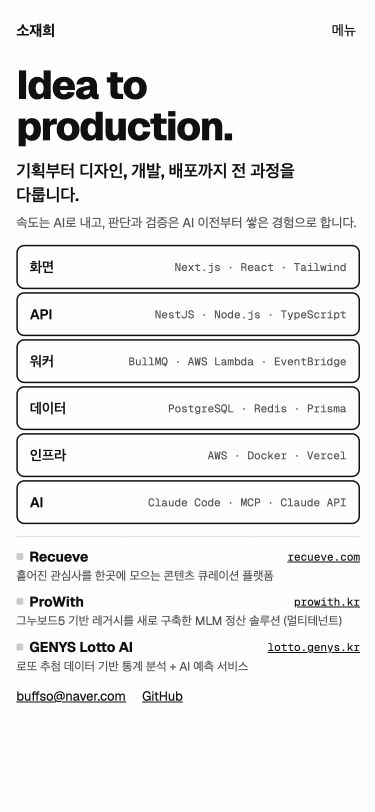
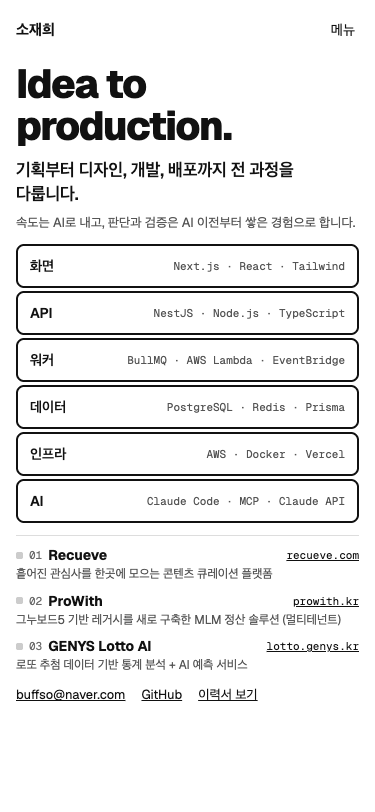
docs: plan the home page around service and ai cards
- The home page shows three service cards and four AI work cards, then a short About.
  Career details stay on the resume page.
- Service details and the two client sites move to the portfolio page.
- Captures of the home page and the updated first screen are in docs/design/f1.

diff --git a/docs/02-ia.md b/docs/02-ia.md
@@ -1,100 +1,117 @@
 # 02. 정보 구조 (IA)
 
-- 상태: 초안 (2026-10-14)
+- 상태: 초안 (2026-10-14). 홈 구성은 F1 기획에서 정했습니다(아래 "홈 시안").
 
 ## 페이지
 
 | 경로 | 내용 | 단계 |
 |---|---|---|
-| `/` | 홈. 아래 섹션 순서 참고 | 1차 |
-| `/work/recueve` · `/work/prowith` · `/work/lotto-ai` | 프로젝트 상세 | 1차 |
-| `/ai` · `/ai/[slug]` | AI 작업 카드 목록과 상세 | 1차 |
-| `/resume` | 이력서 (인쇄용) | 1차 |
+| `/` | 홈(메인). 아래 섹션 순서 참고 | 1차 (F1) |
+| `/work` | 포트폴리오. 세 서비스의 상세와 의뢰받아 만든 사이트 두 개. 서비스마다 페이지를 나눌지(`/work/[slug]`)는 F2 기획에서 정합니다 | 1차 (F2) |
+| `/ai` · `/ai/[slug]` | AI 작업 목록과 상세 | 1차 (F3) |
+| `/resume` | 이력서 (인쇄용) | 1차 (F4) |
 | `/en/...` | 영어 페이지 | 2차 |
 
-섹션과 페이지마다 전달할 메시지, 담을 사실과 출처, 문구 초안, 움직임을 적습니다. 사실의 출처는 `content/synced/`의 원본 절이고, Recueve만 사이트 전용 글 `content/site/projects/recueve.md`입니다(ADR-0003). 문구 초안은 구현하면서 다듬고, 바뀌면 이 문서를 고칩니다.
+섹션과 페이지마다 전달할 메시지, 담을 사실과 출처, 문구 초안, 움직임을 적습니다. 사실의 출처는 `content/synced/`의 원본 절이고, 원본에 없는 작업(Recueve, 사이트 두 개, AI 작업)은 `content/site/`의 사이트 전용 글입니다(ADR-0003). 문구 초안은 구현하면서 다듬고, 바뀌면 이 문서를 고칩니다.
 
 ## 홈
+
+홈은 만든 것을 짧게 보여 주고, 자세한 내용은 `/work`, `/ai`, `/resume`으로 보냅니다. 작업이 주인공이고 사람 소개는 짧게 뒤에 붙습니다([03-design.md](03-design.md#참고한-사이트)). 경력 목록은 홈에 두지 않고 About의 "이력서 보기"로 연결합니다.
+
+순서: 첫 화면 → 운영 중인 서비스 → AI로 일하는 방식 → About → 푸터
+
+섹션 머리는 작은 영어 라벨(Geist Mono)과 한국어 제목으로 맞춥니다. "Planned, designed, built, shipped."와 스토리보드 배치 C의 표는 쓰지 않습니다.
 
 ### 1. 첫 화면
 
 | 항목 | 내용 |
 |---|---|
 | 메시지 | 기획부터 디자인, 개발, 배포까지 전 과정을 다루고, 속도는 AI로 내되 판단과 검증은 AI 이전부터 쌓은 경험으로 합니다 |
-| 사실과 출처 | 첫 줄, 둘째 줄, 보조 문장, 기술 층 여섯 개, 서비스 세 개 증거 목록, 이메일과 GitHub. 재료와 출처는 [04-motion.md](04-motion.md#재료) |
+| 사실과 출처 | 첫 줄, 둘째 줄, 보조 문장, 기술 층 여섯 개, 서비스 세 개 목록, 이메일, GitHub, 이력서 보기. 재료와 출처는 [04-motion.md](04-motion.md#재료) |
 | 문구 초안 | 첫 줄 "Idea to production." · 둘째 줄 "기획부터 디자인, 개발, 배포까지 전 과정을 다룹니다." · 보조 문장 "속도는 AI로 내고, 판단과 검증은 AI 이전부터 쌓은 경험으로 합니다." |
 | 움직임 | 있음. 다섯 박자, [04-motion.md](04-motion.md) |
 
-이력서의 한 줄 소개 "AI를 더해 기술을 비즈니스 가치로 연결하는 풀스택 개발자"는 첫 화면 글이 세 줄을 넘지 않도록 첫 화면에서는 빼고, 경력 섹션과 `/resume`에서 씁니다.
-
-서비스 세 개는 첫 화면의 주인공이 아니라 증거입니다. 큰 카드가 아니라 이름, 한 줄 설명, 라이브 링크만 담은 작은 목록으로 둡니다.
+서비스 세 개는 첫 화면의 주인공이 아니라 증거입니다. 이름, 한 줄 설명, 라이브 링크만 담은 작은 목록으로 둡니다. 번호(01~03)는 아래 서비스 카드와 같고, 이름을 누르면 해당 카드로 내려갑니다.
 
 ### 2. 운영 중인 서비스
 
 | 항목 | 내용 |
 |---|---|
 | 메시지 | 세 서비스 모두 지금 열어 보실 수 있습니다 |
-| 사실과 출처 | 서비스, 한 줄 설명, 역할, 기간, 스택(포트폴리오 "1. 한눈에 보기"), 보는 방법(포트폴리오 "보시는 방법"). Recueve는 `content/site/projects/recueve.md` |
-| 문구 초안 | 제목 "운영 중인 서비스" · 소개 "직접 설계하고 개발해 배포한 서비스 세 개입니다. 세 곳 모두 지금 열어 보실 수 있습니다." |
+| 사실과 출처 | 포트폴리오 "1. 한눈에 보기", "4. 프로젝트 상세". Recueve는 `content/site/projects/recueve.md` |
+| 구성 | 머리 `WORK` · 제목 "운영 중인 서비스" · 소개 "지금 열어 보실 수 있는 서비스 세 개입니다." · 카드 세 장 · 끝에 "포트폴리오 전체 보기"(`/work`) |
 | 움직임 | 없음 |
 
-카드마다 상세 페이지(`/work/[slug]`)와 라이브 서비스로 연결합니다.
+카드에는 실제 화면, 번호와 이름, 제목 문장, 역할과 기간, 확인할 수 있는 숫자 하나, "서비스 열기"와 "자세히 보기"를 담습니다. 설명과 스택, 큰 화면은 `/work`에서 보여 줍니다.
 
-제목 위 작은 머리 문구 후보로 "Planned, designed, built, shipped."를 둡니다. 첫 화면 제목으로는 길어서 빼 둔 문구입니다. 세 서비스가 모두 이 네 단계를 거쳐 지금 운영 중이라는 뜻이라, 이 섹션에서는 섹션 제목을 받쳐 주는 역할을 합니다.
-
-카드 대신 기술과 서비스 표(층이 열, 서비스가 행이고 쓴 기술이 칸으로 보이는 형태, F1 스토리보드의 배치 C)를 쓰는 안도 후보입니다. 두 후보 모두 섹션을 구현할 때 쓸지 정합니다.
+| 카드 | 제목 문장 | 숫자 | 화면 |
+|---|---|---|---|
+| 01 Recueve | 흩어진 관심사를 한곳에 모읍니다. | 7단계 (AI 자동 채움 파이프라인) | 로그아웃 상태의 레코 상세(AI가 채운 설명과 카테고리). 다른 사람 얼굴이 든 썸네일은 잘라 냅니다 |
+| 02 ProWith | 업체마다 다른 보상 규칙을 하나의 정산 엔진으로 돌립니다. | 13종 × 4종 (수당 종류 × 마감 주기) | 데모 관리자의 마감 내역. 회원 이름이 보이는 화면은 쓰지 않습니다. 버튼은 "데모 열기"입니다 |
+| 03 GENYS Lotto AI | 역대 추첨 데이터로 통계 분석과 AI 예측을 함께 합니다. | 966ms → 31ms (분석 API 응답) | 로그인 없이 열리는 스마트 분석 |
 
 ### 3. AI로 일하는 방식
 
 | 항목 | 내용 |
 |---|---|
-| 메시지 | 구현은 AI를 활용해 빠르게 하고, 기준과 판단은 제가 정해 장치로 고정합니다 |
-| 사실과 출처 | 포트폴리오 "2. AI 활용 - 개발"(스킬 6종, 검사 두 가지), `content/site/projects/recueve.md`의 "AI 자동 채움"(Recueve), 이 저장소(CLAUDE.md, 훅, CI, ADR, devlog) |
-| 문구 초안 | 제목 "AI로 일하는 방식" · 소개 "구현은 AI를 활용해 빠르게 하고, 저는 기준을 정하고 판단과 검증에 집중합니다. 이 사이트도 그렇게 만들었습니다." |
-| 움직임 | 없음. 이 사이트가 만들어지는 과정(기획 문서 → 결정 → 구현 → 검사 → 기록)을 움직이지 않는 도식으로 보여 줍니다 |
+| 메시지 | 구현은 AI를 활용해 빠르게 하고, 기준은 장치로 고정합니다. 개발 밖의 일에도 같은 방식을 씁니다 |
+| 사실과 출처 | `content/site/ai/`의 사이트 전용 글. "이 사이트" 카드는 이 저장소 |
+| 구성 | 머리 `AI` · 제목 "AI로 일하는 방식" · 소개(메시지와 같음) · 카드 네 장. "자세히 보기"는 `/ai/[slug]` |
+| 움직임 | 없음 |
 
-도식 아래에 대표 AI 작업 카드 세 개와 `/ai` 링크를 둡니다.
+| 카드 | 제목 문장 | 숫자 | 그림 |
+|---|---|---|---|
+| Jake Wiki | 자료를 넣으면 AI가 정리하는 위키를 씁니다. | 위키 30쪽 · 규칙 문서 5개 (2026.10 기준) | 흐름 도식(raw·clippings → Claude → wiki). 개인 위키라 내용과 화면은 싣지 않습니다 |
+| 영상 제작 | 편집 도구를 배우지 않고 영상을 만들었습니다. | 71.9초 · 6장면 · 1080p | 유튜브 썸네일. computer use로 에이전트가 CapCut을 조작했고, 저는 목소리와 음악을 고르고 결과를 판단했습니다. 라이선스 때문에 음악을 바꾼 판단을 한 줄 넣습니다 |
+| Jake Hermes | 텔레그램으로 일을 맡기는 개인 에이전트를 띄웠습니다. | 로컬 모델 · 예약 작업 2개 | 흐름 도식(텔레그램 ⇄ Hermes Agent ⇄ 로컬 모델). 만든 목적은 구현할 때 확인해 문구를 고칩니다 |
+| 이 사이트 | 이 사이트도 같은 방식으로 만들었습니다. | ADR 6개 · CI 검사 6가지 | 다섯 단계(기획 문서, 결정, 구현, 검사, 기록). 검사만 강조색입니다 |
 
-"하네스 엔지니어링"이라는 말은 첫 화면에서 빼고 이 섹션에서 씁니다. 처음 보는 사람도 알 수 있게, AI가 지켜야 할 기준을 훅, 검사, CI 같은 장치로 고정하는 일이라고 풀어 씁니다.
+"하네스 엔지니어링"이라는 말은 첫 화면에서 빼고 "이 사이트" 카드에서 씁니다. AI가 지켜야 할 기준을 훅, 검사, CI 같은 장치로 고정하는 일이라고 풀어 씁니다.
 
-### 4. 경력
+### 4. About
 
 | 항목 | 내용 |
 |---|---|
-| 메시지 | 만들어 온 일의 흐름을 짧게 보여 줍니다 |
-| 사실과 출처 | 회사, 역할, 기간, 한 줄(이력서 "업무 경험"). 표기는 이력서와 같게 씁니다 |
-| 문구 초안 | 제목 "경력" · 소개 "AI를 더해 기술을 비즈니스 가치로 연결하는 풀스택 개발자"(이력서 한 줄 소개) · 링크 "이력서 전체 보기" |
+| 메시지 | 누가 만들었는지 짧게 |
+| 사실과 출처 | 이력서 자기소개(한 줄 소개, 대표이사 겸 연구소장, 정부 기술개발 과제 총괄책임자와 사업화), 포트폴리오 "5. 협업 - 동료 평가" |
+| 문구 초안 | 제목 "안녕하세요, 소재희입니다." · 소개 "AI를 더해 기술을 비즈니스 가치로 연결하는 풀스택 개발자입니다. 기술연구소 연구원으로 시작해 증권사 대상 솔루션 회사를 대표이사 겸 연구소장으로 이끌었고, 정부 기술개발 과제를 총괄책임자로 맡아 사업화까지 이뤘습니다. 지금은 NestJS, Next.js, AWS로 서비스를 기획부터 배포까지 만듭니다." · 동료 평가 인용 한 문장 · "이력서 보기", 이메일, GitHub |
 | 움직임 | 없음 |
 
-### 5. 연락
+연도와 과제 번호는 넣지 않습니다. 사진은 넣지 않습니다. 첫 화면이 글자와 도형만으로 된 흑백 구성이기 때문입니다.
 
-| 항목 | 내용 |
+### 5. 푸터
+
+"© 2026 소재희"와 "이 사이트의 소스"만 둡니다. 연락 방법은 바로 위 About에 있으므로 반복하지 않습니다.
+
+### 홈 시안
+
+Design 캔버스에 실제 문구와 화면 캡처로 그린 홈 시안입니다.
+
+| 데스크톱 | 모바일 |
 |---|---|
-| 메시지 | 연락은 이메일로 받습니다 |
-| 사실과 출처 | 이메일, GitHub(이력서 연락처), 이 저장소 |
-| 문구 초안 | "이메일 buffso@naver.com" · "GitHub" · "이 사이트의 소스" |
-| 움직임 | 없음 |
+| ![홈 데스크톱 시안](design/f1/home.png) | ![홈 모바일 시안](design/f1/home-mobile.png) |
 
 ## 다른 페이지
 
-### `/work/[slug]` 프로젝트 상세 (F2)
+### `/work` 포트폴리오 (F2)
 
 | 항목 | 내용 |
 |---|---|
-| 메시지 | 이 서비스를 어떻게 만들었고, 지금 어떻게 열어 볼 수 있는지 |
-| 사실과 출처 | 포트폴리오 "4. 프로젝트 상세"의 해당 절, "보시는 방법". Recueve는 `content/site/projects/recueve.md`, ProWith는 "2. AI 활용 - 개발"도 함께 |
-| 구성 | 머리(이름, 한 줄, 기간, 역할, 스택, 라이브 링크, 보는 방법) → 본문(포트폴리오 상세) → 화면 캡처(F2에서 한 장씩 확인한 뒤) |
+| 메시지 | 세 서비스를 어떻게 만들었는지 자세히, 그리고 의뢰받아 만든 사이트 |
+| 사실과 출처 | 포트폴리오 "4. 프로젝트 상세", "보시는 방법". ProWith는 "2. AI 활용 - 개발"도 함께. Recueve와 사이트 두 개는 `content/site/`의 사이트 전용 글 |
+| 구성 | F2 기획에서 정합니다. F1 기획 때 그린 큰 챕터 시안(실제 화면, 역할과 기간, 스택, 숫자)과 사이트 카드 시안에서 출발합니다 |
 | 움직임 | 없음 |
 
-Recueve는 소스 저장소 링크나 코드를 싣지 않습니다.
+- 사이트 두 개는 Brain House(brainhouse.kr)와 AI TOOLS(aitoolz.kr)입니다. 역할은 "외부 의뢰"로 쓰고, 공개 저장소라 소스 링크를 답니다. 걸린 시간은 공개 저장소의 커밋 기록처럼 확인할 수 있는 근거로 씁니다.
+- Recueve는 소스 저장소 링크나 코드를 싣지 않습니다.
 
-### `/ai` AI 작업 카드 (F3)
+### `/ai` AI 작업 (F3)
 
 | 항목 | 내용 |
 |---|---|
-| 메시지 | AI를 활용해 제품을 만든 사례 |
-| 사실과 출처 | 이 저장소(첫 카드), 포트폴리오 "2. AI 활용 - 개발"(ProWith 운영 하네스), `content/site/projects/recueve.md`의 "AI 자동 채움"(Recueve 자동 채움 파이프라인) |
-| 구성 | 카드마다 문제, 만든 것, 결과(확인 가능한 근거), 링크 |
+| 메시지 | AI를 활용해 만든 것과 일하는 방식 |
+| 사실과 출처 | `content/site/ai/`의 사이트 전용 글, 포트폴리오 "2. AI 활용 - 개발"(ProWith 운영 하네스, 코드 리뷰 스킬), `content/site/projects/recueve.md`의 "AI 자동 채움" |
+| 구성 | 목록: Jake Wiki, 영상 제작, Jake Hermes, 이 사이트, ProWith 운영 하네스, Recueve AI 자동 채움, 코드 리뷰 스킬. 카드마다 문제, 만든 것, 결과(확인 가능한 근거), 링크 |
 | 움직임 | 없음 |
 
 ### `/resume` 이력서 (F4)
@@ -108,8 +125,8 @@ Recueve는 소스 저장소 링크나 코드를 싣지 않습니다.
 
 ## 공통 요소
 
-- **헤더** - 이름, Work, AI, Resume
-- **푸터** - 이메일, GitHub, "이 사이트의 소스"(이 저장소)
+- **헤더** - 이름, Work(`/work`), AI(`/ai`), Resume(`/resume`). 모바일은 "메뉴" 버튼으로 같은 세 항목을 엽니다
+- **푸터** - "© 2026 소재희", "이 사이트의 소스"(이 저장소)
 - **질문 창** (2차) - 모든 페이지에서 열 수 있는 패널
 
 ## 콘텐츠 흐름
@@ -119,7 +136,7 @@ Recueve는 소스 저장소 링크나 코드를 싣지 않습니다.
   │  npm run sync  (허용 목록, 동기화 규칙)
   ▼
 content/synced/    ← 동기화 결과. 직접 고치지 않는다. 커밋한다.
-content/site/      ← 이 사이트에서만 쓰는 글 (문구 초안, AI 작업 카드 등)
+content/site/      ← 이 사이트에서만 쓰는 글 (원본에 없는 작업, AI 작업 등)
   │  빌드할 때 파싱
   ▼
 페이지
@@ -134,12 +151,26 @@ type Project = {
   slug: "recueve" | "prowith" | "lotto-ai";
   title: string;
   summary: string;        // 한 줄 설명
-  period: string;         // 예: "2026.04 ~ 2026.05"
-  role: string;           // 예: "풀스택 (회사)"
+  headline: string;       // 홈 카드의 제목 문장
+  period: string;         // 예: "2025.10 ~ 2025.11"
+  role: string;           // 예: "풀스택 (개인)"
   stack: string[];
+  metric: { value: string; label: string };
   liveUrl: string;
   howToView?: string;     // "보시는 방법" 안내
   body: string;           // 상세 본문 (md)
+};
+
+type Site = {
+  slug: "brainhouse" | "aitools";
+  title: string;
+  headline: string;
+  period: string;
+  role: string;           // "외부 의뢰"
+  stack: string[];
+  metric: { value: string; label: string };
+  liveUrl: string;
+  sourceUrl: string;
 };
 
 type StackLayer = {
@@ -148,20 +179,15 @@ type StackLayer = {
   usedBy: Project["slug"][];
 };
 
-type AiCard = {
+type AiWork = {
   slug: string;
   title: string;
+  headline: string;       // 홈 카드의 제목 문장
   problem: string;        // 무엇이 문제였나
   built: string;          // 무엇을 만들었나
   result: string;         // 무엇이 달라졌나 (확인 가능한 근거)
+  metric: { value: string; label: string };
   links: { label: string; href: string }[];
-};
-
-type CareerItem = {
-  org: string;
-  role: string;
-  period: string;
-  summary: string;
 };
 ```
 

diff --git a/docs/01-prd.md b/docs/01-prd.md
@@ -12,7 +12,7 @@
 
 | 기준 | 확인 방법 |
 |---|---|
-| 첫 화면만 보고도 한 줄 소개, 운영 중인 서비스 세 개, AI 활용 방식을 알 수 있다 | 화면 캡처 리뷰 |
+| 첫 화면만 보고도 다루는 범위, 운영 중인 서비스 세 개, AI 활용 방식을 알 수 있다 | 화면 캡처 리뷰 |
 | 사이트의 수치와 날짜가 이력서, 포트폴리오와 모두 같다 | 동기화 원본 대조 (F5) |
 | 민감정보 노출 0건 | 커밋마다 `check:sensitive` 통과, CI 통과 |
 | 모바일에서 가로 스크롤이 없다 | 375px 화면 캡처 |
@@ -24,9 +24,9 @@
 
 | ID | 기능 | 수용 기준 |
 |---|---|---|
-| F1 | 홈 `/` | 첫 화면은 첫 줄과 짧은 움직임으로 시작해, 같은 화면 안에 소개 두 줄(다루는 범위와 일하는 방식), 기술 층 여섯 개, 서비스 세 개 증거 목록(이름, 한 줄 설명, 라이브 링크), 이메일과 GitHub가 남는다. 움직임은 [04-motion.md](04-motion.md)를 따르고, 움직임 줄이기 설정에서는 마지막 장면만 보인다. 첫 화면 아래에 운영 중인 서비스, AI로 일하는 방식, 경력, 연락 네 섹션이 이어진다([02-ia.md](02-ia.md#홈)). 아래 섹션에는 움직임이 없다 |
-| F2 | 프로젝트 상세 `/work/[slug]` | Recueve, ProWith, GENYS Lotto AI 세 페이지. 포트폴리오의 프로젝트 상세와 "보시는 방법" 안내를 담는다. Recueve는 사이트 전용 글(`content/site/projects/recueve.md`)을 쓴다 |
-| F3 | AI 작업 카드 `/ai` | 카드마다 문제, 만든 것, 결과를 쓴다. 첫 카드는 이 저장소다. 제품을 만든 사례만 싣는다 |
+| F1 | 홈 `/` | 첫 화면은 첫 줄과 짧은 움직임으로 시작해, 같은 화면 안에 소개 두 줄(다루는 범위와 일하는 방식), 기술 층 여섯 개, 서비스 세 개 증거 목록(이름, 한 줄 설명, 라이브 링크), 이메일과 GitHub가 남는다. 움직임은 [04-motion.md](04-motion.md)를 따르고, 움직임 줄이기 설정에서는 마지막 장면만 보인다. 첫 화면에는 이력서 보기 링크도 있다. 그 아래에 운영 중인 서비스 카드 세 장, AI로 일하는 방식 카드 네 장, 짧은 About, 푸터가 이어진다([02-ia.md](02-ia.md#홈)). 경력 목록은 홈에 두지 않는다. 아래 섹션에는 움직임이 없다 |
+| F2 | 포트폴리오 `/work` | Recueve, ProWith, GENYS Lotto AI의 상세(포트폴리오의 프로젝트 상세와 "보시는 방법")와, 의뢰받아 만든 사이트 두 개(Brain House, AI TOOLS)를 담는다. 서비스마다 페이지를 나눌지(`/work/[slug]`)는 F2 기획에서 정한다. 원본에 없는 작업은 사이트 전용 글(`content/site/`)을 쓴다 |
+| F3 | AI 작업 `/ai` | AI를 활용해 만든 것과 일하는 방식을 싣는다: Jake Wiki, 영상 제작, Jake Hermes, 이 사이트, ProWith 운영 하네스, Recueve AI 자동 채움, 코드 리뷰 스킬. 카드마다 문제, 만든 것, 결과(확인 가능한 근거)를 쓴다 |
 | F4 | 이력서 `/resume` | 이력서 md에서 생성한다. 전화번호를 뺀다. 인쇄용 스타일이 있다 |
 | F5 | 콘텐츠 동기화 `npm run sync` | 허용 목록에 있는 원본 파일만 가져온다. 연락처 표에서 전화번호를 지운다. 결과를 `content/synced/`에 커밋한다([ADR-0003](adr/0003-content-source-and-sync.md)) |
 | F6 | 검증 `npm run verify` | 타입체크, 린트, 테스트, 빌드, 민감정보 검사, 첫 화면 움직임 코드 용량(gzip 10KB 이하), 주요 화면 캡처를 한 번에 돌린다. 하나라도 실패하면 작업이 끝나지 않은 것이다 |
@@ -38,7 +38,7 @@
 | F7 | 질문 창 | [ADR-0004](adr/0004-ask-answer-policy.md) 기준을 따른다. 답마다 근거 섹션을 표시한다. 요청 수 제한과 하루 예산 상한이 있다. 평가 세트(`evals/qa/`)를 통과한다 |
 | F8 | GENYS Lotto AI 라이브 카드 | 실제 서비스에서 최신 회차 데이터를 가져와 보여 준다. 일정 주기로 갱신한다. 서비스가 응답하지 않으면 마지막 값을 보여 준다 |
 | F9 | GitHub 활동 카드 | 검증한 값만 보여 준다. 공개 API의 집계를 그대로 쓰지 않는다 |
-| F10 | 영어 페이지 `/en` | 홈, 프로젝트 상세, 이력서 |
+| F10 | 영어 페이지 `/en` | 홈, 포트폴리오, 이력서 |
 | F11 | OG 이미지 | 페이지마다 공유용 이미지를 자동 생성한다 |
 
 ### 3차 (검토)

diff --git a/docs/04-motion.md b/docs/04-motion.md
@@ -20,7 +20,7 @@
 | 기술 층 | 아래 표의 여섯 층 | 포트폴리오 "6. 기술 스택" |
 | 보조 문장 | 속도는 AI로 내고, 판단과 검증은 AI 이전부터 쌓은 경험으로 합니다. | 이력서 자기소개("AI 코딩 도구가 등장하기 훨씬 전부터 다양한 로직을 직접 구현해 온 경험을 바탕으로") |
 | 증거 목록 | 서비스 세 개의 이름, 한 줄 설명, 라이브 링크 | 포트폴리오 "1. 한눈에 보기"(ProWith, GENYS Lotto AI), `content/site/projects/recueve.md`(Recueve) |
-| 연락 | 이메일, GitHub | 이력서 연락처 |
+| 연락 | 이메일, GitHub, 이력서 보기 | 이력서 연락처 |
 
 ### 기술 층
 
@@ -43,6 +43,8 @@
 | 첫 줄 모양 | 데스크톱 두 줄("Idea to / production."), 모바일 두 줄 |
 | 강조색 | 초록 `#0B7A52`. 관문을 통과했다는 뜻과 맞습니다. 흰 글자와의 대비는 5.4:1입니다. 다크 모드 값은 구현할 때 대비를 재서 정합니다 |
 | 다시 보기 | 기술 층 아래 오른쪽 |
+| 서비스 목록 | 번호 01~03을 붙여 아래 서비스 카드와 맞춥니다. 이름을 누르면 해당 카드로 내려갑니다 |
+| 층 테두리 | 2px(`border-2`). 스토리보드의 1.5px는 단위 규칙([03-design.md](03-design.md#원칙) 7번) 때문에 바꿨습니다 |
 
 배치 B(가운데 무대)와 C(기술과 서비스 표)는 고르지 않았습니다. C의 표는 "운영 중인 서비스" 섹션의 후보로 [02-ia.md](02-ia.md#2-운영-중인-서비스)에 남겼습니다.
 

diff --git a/docs/03-design.md b/docs/03-design.md
@@ -47,4 +47,4 @@
 
 ## 참고한 사이트
 
-- [careerhackeralex.com](https://www.careerhackeralex.com/) - 소개는 짧게 두고 작업과 생각을 본문으로 삼는 구성, 숫자 카드, 인쇄용 이력서 페이지를 참고했습니다.
+- [careerhackeralex.com](https://www.careerhackeralex.com/) - 홈에서 작업을 보여 주고 자세한 내용은 각 페이지로 보내는 구성, 짧은 사람 소개, 이력서는 링크로만 두는 것, 숫자 하나로 근거를 보이는 카드, 첫 장면 다시 보기 버튼, 인쇄용 이력서 페이지를 참고했습니다. 장면마다 배경색을 바꾸는 것과 스크롤에 따라 바뀌는 장면은 흑백에 강조색 하나라는 원칙과 1차 범위 때문에 가져오지 않았습니다.
